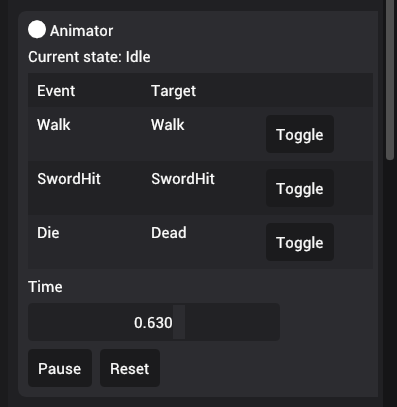
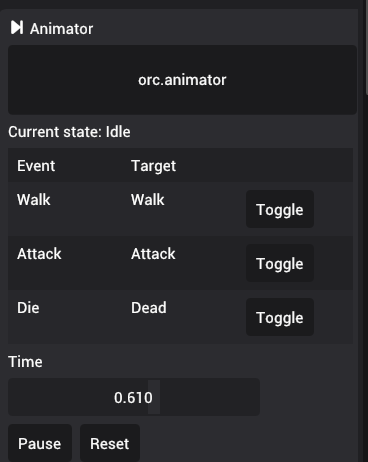
Update entity pages to match the the recent UI changes

diff --git a/docs/manual/working-with-entities/animator.md b/docs/manual/working-with-entities/animator.md
@@ -8,12 +8,14 @@ Animators allow controlling animations for an entity using a state machine. The 
 
 ![Animator](./img/animator.png)
 
-In the example image above, the current state is shown as "AttackChop". The table below the current state shows what states the animator can transition from "AttackChop."
+You can update the animator by dragging a new animator asset to the drag and drop area.
 
 ## Testing animator states
 
 In order to test the animations and the animator states, the animator component provides additional controls during simulation mode.
 
 ![Animator simulation mode](./img/animator-simulation-mode.png)
+
+In the example image above, the current state is shown as "Idle". The table below the current state shows what states the animator can transition from "Idle" state.
 
 The new "Toggle" button next to each state allows toggling between animator states. The time, shows unnormalized time of currently running animation. The "Pause" button pauses the animation in current time and the "Reset" button resets the animation time to beginning. You can also manually move the time by dragging the slide.

diff --git a/docs/manual/working-with-entities/skeleton.md b/docs/manual/working-with-entities/skeleton.md
@@ -8,7 +8,7 @@ Skeleton components provide bone structure to a skinned mesh. The main use-case 
 
 ![Skeleton](./img/skeleton.png)
 
-All properties of skeleton are read only since skeleton components are created from assets.
+You can update the skeleton by dragging a new skeleton asset to the drag and drop area.
 
 In order to view the skeleton in the editor, you can check the "Show bones" checkmark, which shows debug bones for the skeleton in yellow color:
 

diff --git a/docs/manual/working-with-entities/inspector-panel.md b/docs/manual/working-with-entities/inspector-panel.md
@@ -15,9 +15,3 @@ New components can be added by clicking the "Add component" button located at th
 ![Add component](./img/inspector-add-component.png)
 
 Note that you can only add non asset specific components with this button.
-
-### Creating components from assets
-
-Some components are associated with an asset and require you to drag an asset to the "Drag asset here" located at the bottom of the panel.
-
-![Drag asset here](./img/inspector-drag-asset.png)

diff --git a/docs/manual/working-with-entities/mesh.md b/docs/manual/working-with-entities/mesh.md
@@ -8,6 +8,4 @@ Mesh components reference a mesh that is associated with an entity. You can drag
 
 ![Mesh component](./img/mesh.png)
 
-The component in the inspector shows the reference to the component and the number of geometries the component has.
-
-You can create or update a mesh component by dragging a mesh asset to the drag and drop area.
+You can update the mesh by dragging a new mesh asset to the drag and drop area.

diff --git a/docs/manual/working-with-entities/audio.md b/docs/manual/working-with-entities/audio.md
@@ -6,4 +6,6 @@ sidebar_position: 15
 
 ![Audio](./img/audio.png)
 
-You can create or update audio by dragging an audio asset to the drag and drop area. Playing audio is fully controlled by scripting.
+You can update the audio by dragging a new audio asset to the drag and drop area.
+
+Audio playback is fully controlled by scripts.
